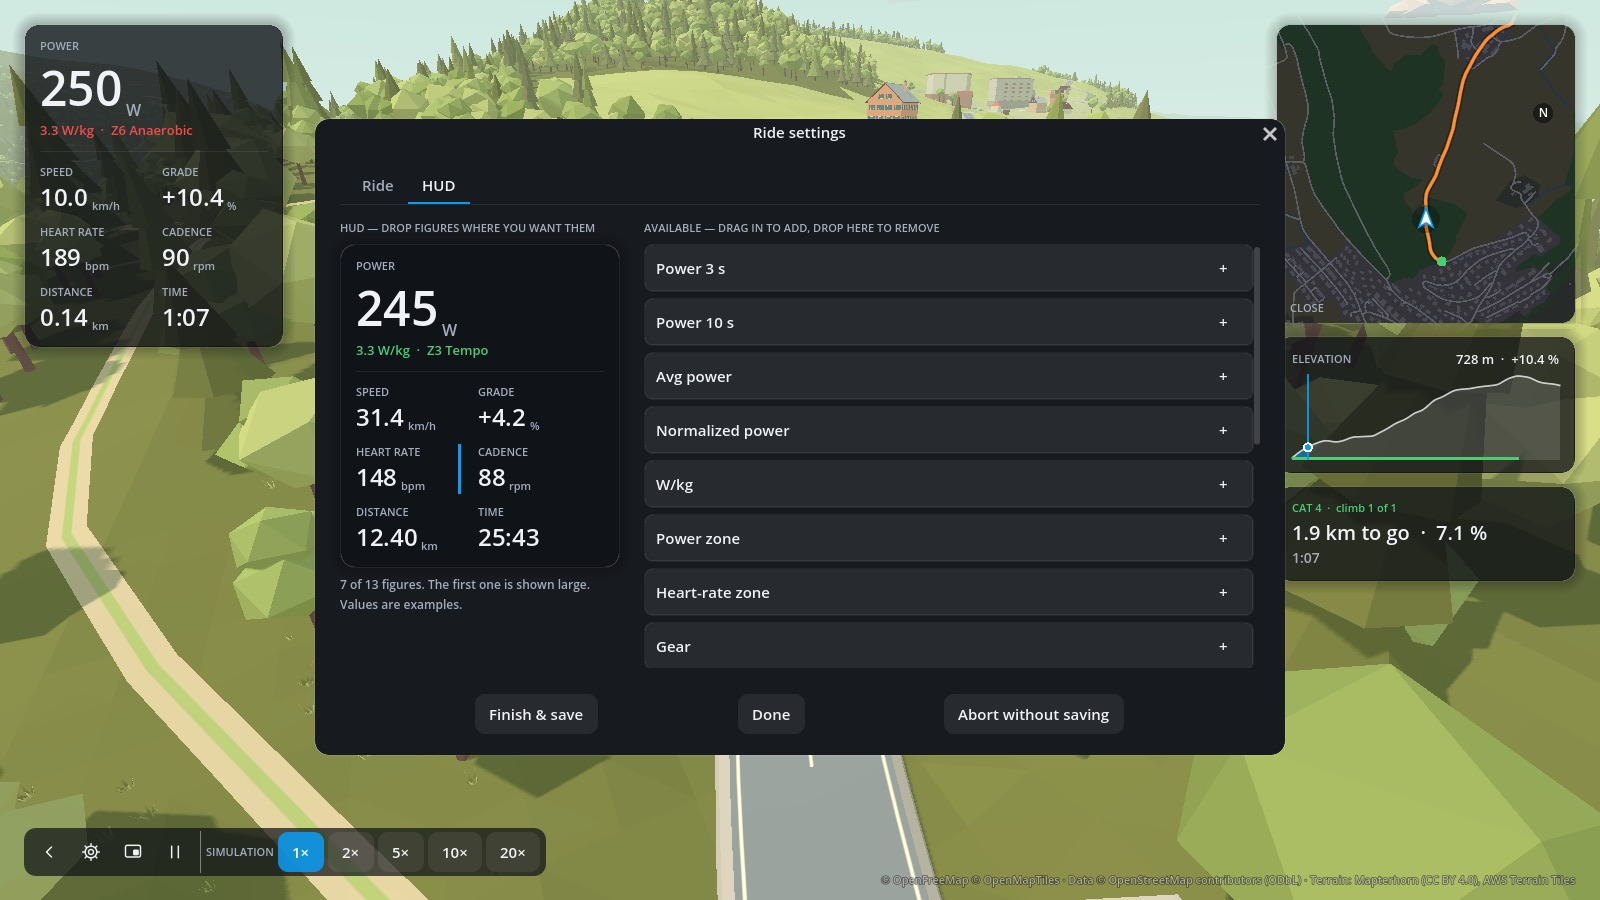
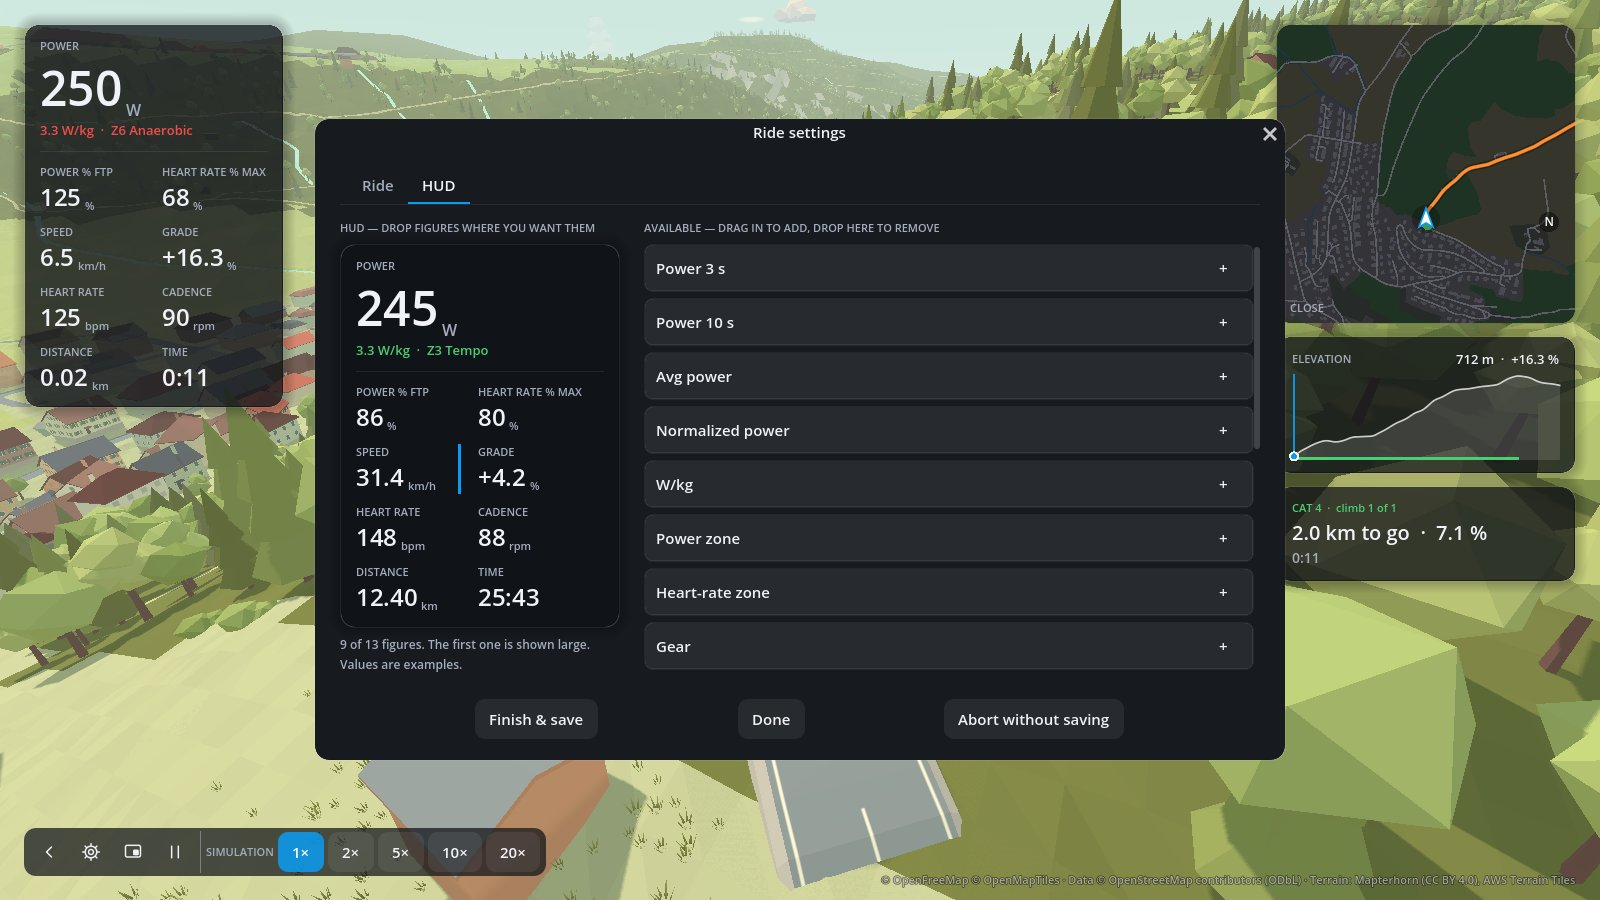
feat(hud): power in % of FTP and heart rate in % of the maximum
Two new HUD figures, on the scales the rider's zones are set on, so they read
against the zone bounds: instant power as a share of FTP, heart rate as a
share of the maximum heart rate. A profile without an FTP or maximum shows
"--" rather than dividing by zero.

diff --git a/core/torqa-app/src/hud.rs b/core/torqa-app/src/hud.rs
@@ -75,6 +75,14 @@ pub const METRICS: &[Metric] = &[
         236.0,
     ),
     metric("watts_per_kg", "W/kg", "W/kg", 1, MetricKind::Number, 3.3),
+    metric(
+        "power_percent_ftp",
+        "Power % FTP",
+        "%",
+        0,
+        MetricKind::Number,
+        86.0,
+    ),
     metric("power_zone", "Power zone", "", 0, MetricKind::Zone, 3.0),
     metric(
         "heart_rate",
@@ -83,6 +91,14 @@ pub const METRICS: &[Metric] = &[
         0,
         MetricKind::Number,
         148.0,
+    ),
+    metric(
+        "heart_rate_percent_max",
+        "Heart rate % max",
+        "%",
+        0,
+        MetricKind::Number,
+        80.0,
     ),
     metric(
         "heart_rate_zone",
@@ -208,8 +224,12 @@ pub fn values(
                 "avg_power" => summary.avg_power.map(|p| p.0),
                 "normalized_power" => summary.normalized_power.map(|p| p.0),
                 "watts_per_kg" => power.map(|p| profile.watts_per_kg(p)),
+                "power_percent_ftp" => power.and_then(|p| profile.percent_of_ftp(p)),
                 "power_zone" => power.map(|p| f64::from(profile.power_zone(p))),
                 "heart_rate" => t.heart_rate.map(|h| h.0),
+                "heart_rate_percent_max" => t
+                    .heart_rate
+                    .and_then(|h| profile.percent_of_max_heart_rate(h)),
                 "heart_rate_zone" => t.heart_rate.map(|h| f64::from(profile.heart_rate_zone(h))),
                 "cadence" => t.cadence.map(|c| c.0),
                 #[allow(clippy::cast_precision_loss)] // a gear number
@@ -251,7 +271,8 @@ fn recent_power(samples: &[Sample], seconds: usize) -> Option<f64> {
 mod tests {
     use std::time::Duration;
 
-    use torqa_domain::units::{Meters, MetersPerSecond, Watts};
+    use torqa_domain::telemetry::Telemetry;
+    use torqa_domain::units::{BeatsPerMinute, Meters, MetersPerSecond, Watts};
 
     use super::*;
 
@@ -279,6 +300,42 @@ mod tests {
         }
         let default: Vec<String> = DEFAULT_LAYOUT.iter().map(|&s| s.to_owned()).collect();
         assert_eq!(sanitize(&default), default);
+    }
+
+    #[test]
+    fn percentages_relate_power_to_ftp_and_heart_rate_to_the_maximum() {
+        let profile = Profile {
+            ftp: Watts(250.0),
+            max_heart_rate: BeatsPerMinute(190.0),
+            ..Profile::default()
+        };
+        let mut state = RideState {
+            elapsed: Duration::ZERO,
+            distance: Meters(0.0),
+            remaining: None,
+            speed: MetersPerSecond(0.0),
+            position: None,
+            telemetry: Telemetry {
+                power: Some(Watts(275.0)),
+                heart_rate: Some(BeatsPerMinute(171.0)),
+                ..Telemetry::default()
+            },
+            workout: None,
+            gear: None,
+        };
+        let value = |state: &RideState, id: &str| {
+            values(state, &[], &RideSummary::default(), None, &profile)
+                .into_iter()
+                .find(|&(metric, _)| metric == id)
+                .and_then(|(_, value)| value)
+        };
+
+        assert!((value(&state, "power_percent_ftp").unwrap() - 110.0).abs() < 1e-9);
+        assert!((value(&state, "heart_rate_percent_max").unwrap() - 90.0).abs() < 1e-9);
+        // Without a strap or a power reading there is nothing to relate.
+        state.telemetry = Telemetry::default();
+        assert_eq!(value(&state, "power_percent_ftp"), None);
+        assert_eq!(value(&state, "heart_rate_percent_max"), None);
     }
 
     #[test]

diff --git a/core/torqa-domain/src/profile.rs b/core/torqa-domain/src/profile.rs
@@ -125,6 +125,19 @@ impl Profile {
         zone(heart_rate.0, self.max_heart_rate.0, &self.heart_rate_zones)
     }
 
+    /// Power in percent of FTP, the scale the power zones are set on; `None` without an FTP.
+    #[must_use]
+    pub fn percent_of_ftp(&self, power: Watts) -> Option<f64> {
+        percent(power.0, self.ftp.0)
+    }
+
+    /// Heart rate in percent of the maximum, the scale the heart-rate zones are set on; `None`
+    /// without a maximum.
+    #[must_use]
+    pub fn percent_of_max_heart_rate(&self, heart_rate: BeatsPerMinute) -> Option<f64> {
+        percent(heart_rate.0, self.max_heart_rate.0)
+    }
+
     /// Power zone bounds a rider may keep: six, each above the one before, none above
     /// `ZONE_CEILING`; the standard ones otherwise, so a file or a dialog cannot leave zones
     /// that cannot be told apart.
@@ -172,6 +185,11 @@ fn sane<const N: usize>(bounds: &[f64], floor: f64) -> Option<[f64; N]> {
         last = bound;
     }
     Some(out)
+}
+
+/// `value` in percent of `base`; `None` for a base of zero, as a profile file may hold.
+fn percent(value: f64, base: f64) -> Option<f64> {
+    (base > 0.0).then(|| value / base * 100.0)
 }
 
 /// The 1-based zone of `value`: zone n ends at `bounds[n - 1] × base`, inclusive.
@@ -267,6 +285,35 @@ mod tests {
         assert_eq!(rider.heart_rate_zone(BeatsPerMinute(143.0)), 4);
         let (low, high) = rider.heart_rate_zone_range(4);
         assert!((low.0 - 142.5).abs() < 1e-9 && (high.0 - 161.5).abs() < 1e-9);
+    }
+
+    #[test]
+    fn percentages_are_on_the_scale_of_the_zones() {
+        let mut rider = rider();
+        rider.power_zones = [0.50, 0.70, 0.85, 1.00, 1.15, 1.40];
+        // 250 W FTP, 190 bpm maximum: a zone's top in percent is its bound × 100.
+        let ftp = rider.percent_of_ftp(Watts(250.0)).unwrap();
+        assert!((ftp - 100.0).abs() < 1e-9);
+        assert_eq!(rider.power_zone(Watts(250.0)), 4);
+        let sprint = rider.percent_of_ftp(Watts(400.0)).unwrap();
+        assert!((sprint - 160.0).abs() < 1e-9);
+        assert_eq!(rider.power_zone(Watts(400.0)), 7);
+        let heart = rider
+            .percent_of_max_heart_rate(BeatsPerMinute(152.0))
+            .unwrap();
+        assert!((heart - 80.0).abs() < 1e-9);
+        assert_eq!(rider.heart_rate_zone(BeatsPerMinute(152.0)), 3);
+    }
+
+    #[test]
+    fn percentages_need_a_base() {
+        let rider = Profile {
+            ftp: Watts(0.0),
+            max_heart_rate: BeatsPerMinute(0.0),
+            ..Profile::default()
+        };
+        assert_eq!(rider.percent_of_ftp(Watts(200.0)), None);
+        assert_eq!(rider.percent_of_max_heart_rate(BeatsPerMinute(150.0)), None);
     }
 
     #[test]

diff --git a/docs/hud.md b/docs/hud.md
@@ -22,8 +22,8 @@ The editor shows the **HUD** itself with example values, and the figures still *
 |---|---|
 | Power, Power 3 s, Power 10 s | Instant power and its average over the last 3 or 10 seconds |
 | Avg power, Normalized power | Over the ride so far ([history.md](history.md) explains NP) |
-| W/kg, Power zone | Power per kilogram body weight, zone from your FTP |
-| Heart rate, Heart-rate zone | From a heart-rate strap, zone from your maximum heart rate |
+| W/kg, Power % FTP, Power zone | Power per kilogram body weight, in percent of your FTP, and its zone |
+| Heart rate, Heart rate % max, Heart-rate zone | From a heart-rate strap, in percent of your maximum heart rate, and its zone |
 | Cadence | Pedal revolutions per minute |
 | Gear | The virtual gear (1–24) on a single cog ([riding.md](riding.md#virtual-gears)) |
 | Speed, Avg speed | Virtual speed |
@@ -32,6 +32,9 @@ The editor shows the **HUD** itself with example values, and the figures still *
 | Elevation, Climbed, Ascent to go | Current altitude, climbing so far, climbing still ahead on the route |
 | Grade, Next 500 m | Gradient here, and on average over the next 500 m |
 | Intensity, TSS, Work | Intensity factor, training stress score and kilojoules so far |
+
+The percentages are on the scale your zones are set on (**Rider settings → Zones**, see
+[riders.md](riders.md)): at 92 % FTP you are just past the top of the standard zone 3, 90 %.
 
 Each rider has their own layout, stored in `profiles/<rider>/hud.toml`. Units follow the rider's
 profile (metric or imperial).

diff --git a/docs/riders.md b/docs/riders.md
@@ -18,8 +18,9 @@ range. Under them, **Accounts** lists the training platforms rides can be upload
 **Rider settings** (the pencil) has three tabs: **Profile**, **Zones** and **HUD**.
 
 - **Weight + bike weight** set how hard climbs are and how fast you roll.
-- **FTP** sets the power zones shown under the power figure, together with watts per kilogram.
-- **Maximum heart rate** sets the heart-rate zones.
+- **FTP** sets the power zones shown under the power figure, together with watts per kilogram,
+  and the HUD's **Power % FTP**.
+- **Maximum heart rate** sets the heart-rate zones and the HUD's **Heart rate % max**.
 - **Trainer difficulty** is the share of the road's gradient you feel on the trainer that every
   ride starts with (0–100 %, 50 % unless you change it); the course page shows it, and the ride
   settings change it for one ride ([riding.md](riding.md)).

diff --git a/docs/PLAN.md b/docs/PLAN.md
@@ -139,7 +139,8 @@ Built in rideable steps:
 - [x] Multiple rider profiles (TOML), power and heart-rate zones, W/kg, metric/imperial display
 - [x] Zones shown and adjustable per rider (#173); a rider's default trainer difficulty (#175);
   riders deleted with their rides, after asking
-- [x] Customizable HUD (R23); an ascent-to-go figure (#174)
+- [x] Customizable HUD (R23); an ascent-to-go figure (#174); power in % of FTP and heart
+  rate in % of the maximum
 - [x] Simulation with the fake trainer: speed-up, jumps on map/profile, free camera (#53)
 - [x] HUD layout per rider in the profile settings: drag and drop from the widget list
   directly into the HUD preview and within it (R51, R54)
